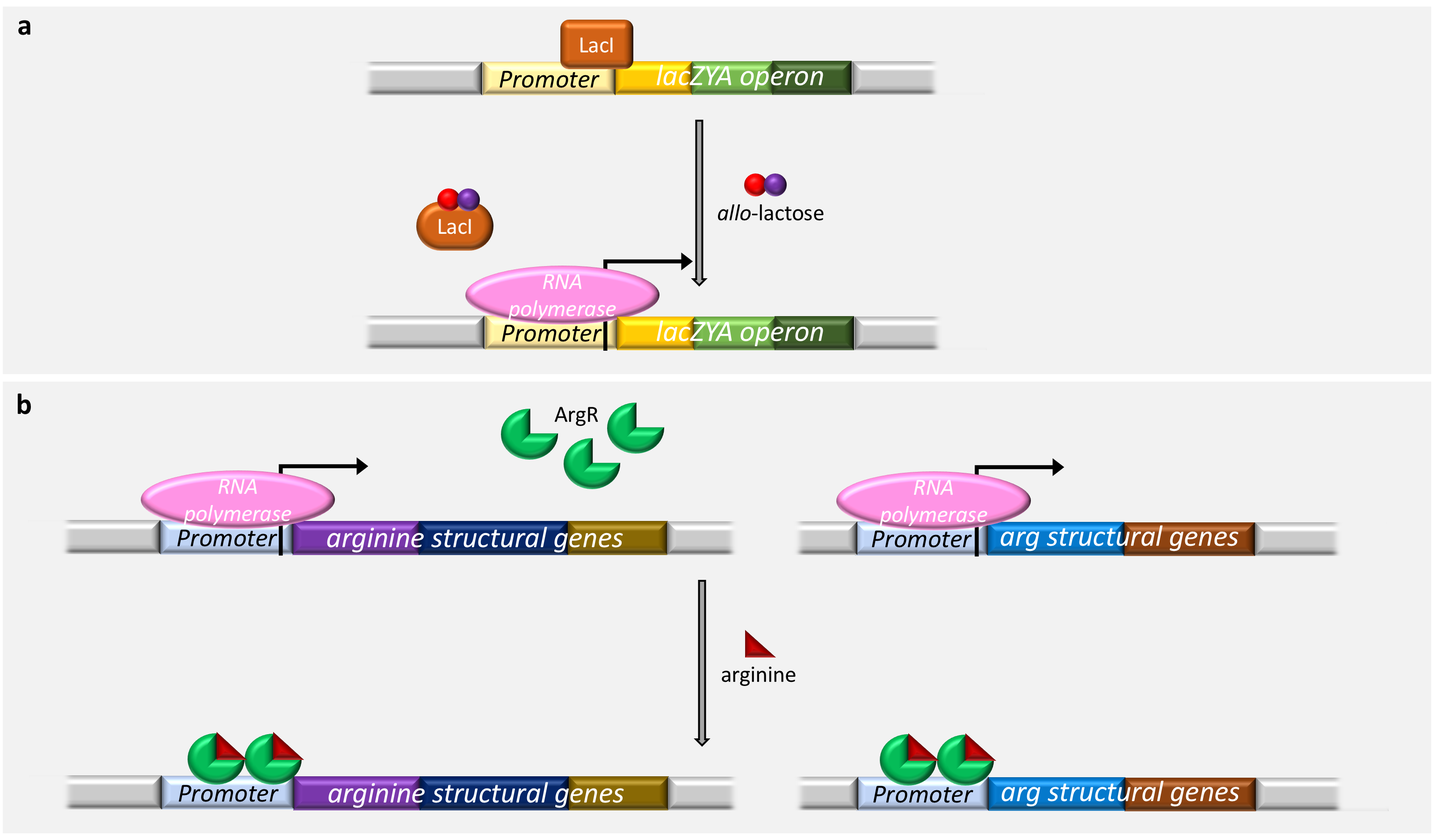
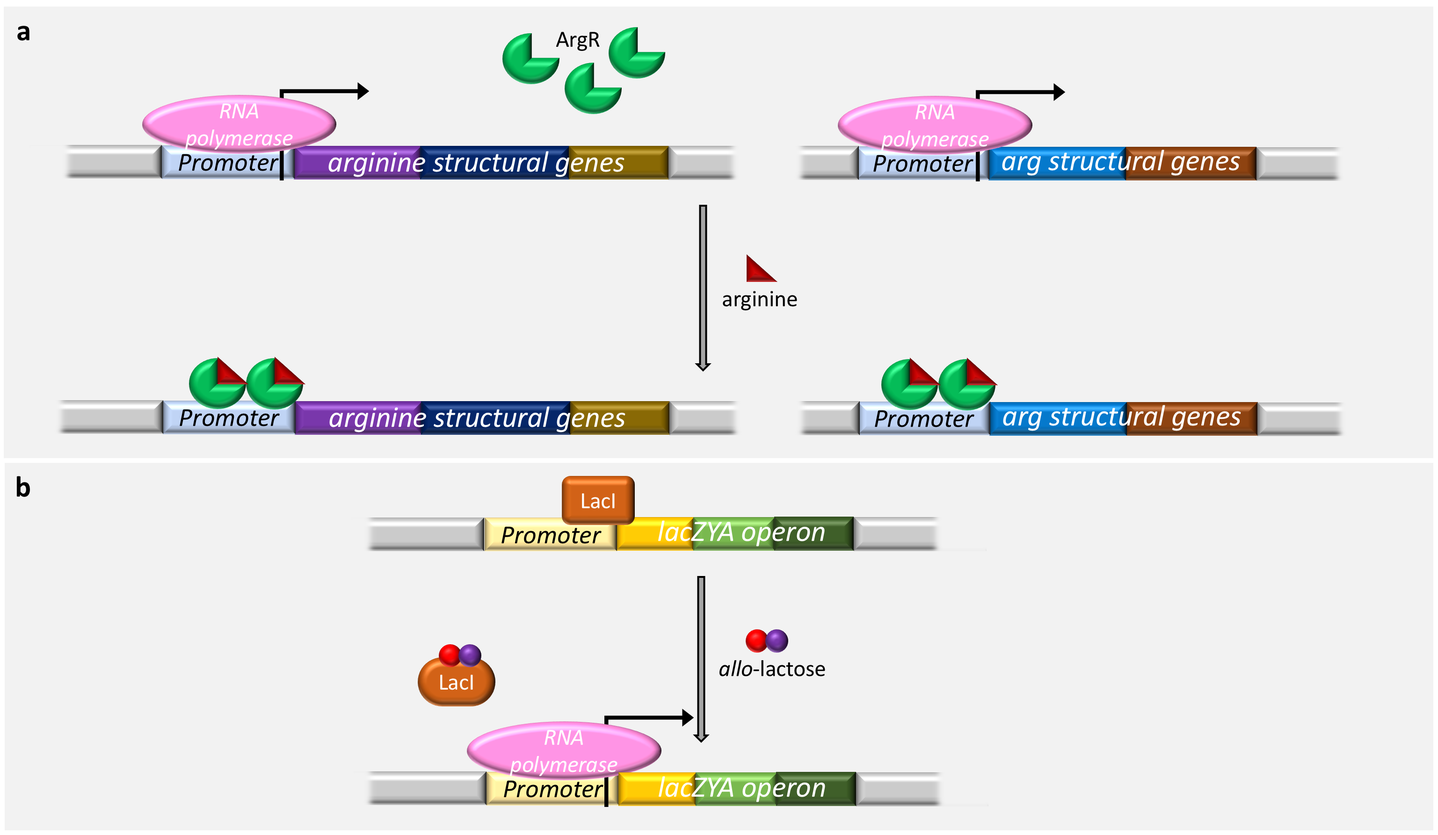
Incorporated all Olin's suggestions so far into Intro

Changed region(s): [[0.0, 0.4311, 0.9289, 0.9854], [0.031, 0.0, 0.9289, 0.5235], [0.0, 0.0308, 0.031, 0.0616]]

diff --git a/text/02_Introduction.tex b/text/02_Introduction.tex
@@ -7,25 +7,18 @@
 Bacteria exhibit genotypic and phenotypic variability even at the levels of genus.
 This variability is continuously shaped by natural selection as the cells that are better adapted to the current conditions are more likely to survive and proliferate.
 In the case of unicellular organisms the survival game is more stringent, because they face the changing conditions directly and have limited ability to escape.
-Drought, nutrient poor environments, or high UV radiation are some of the most harsh environments bacteria can experience.
-Nevertheless even in these we find viable cells which have evolved to survive for either short or long period of time.
-Importantly, cells have evolved multiple ways how to overcome such conditions and thus variability in survival strategies in the same environment still occurs.
-These differences could be driven by other selection forces acting simultaneously or could be a result of previous evolution in response to a similar environment.
+Cells must survive osmotic stress, nutrient poor environments, or high UV radiation. They have evolved multiple ways how to overcome such conditions, many of which rely on responding to such environmental changes with physiological adaptations.
+These are all mediated by sensing external signals and translating them into internal responses.
+However, the differences in response to the same signal could be driven by other selection forces acting simultaneously or could be a result of previous evolution in response to a similar environment.
 Anyway, cells which don't manage to adapt to the new conditions are excluded by natural selection and die.
 
-% 17.9.2018
-% see if you can get someone to proff grammar? Georgia?
-\section{Cellular responses}
-% 17.9.2018
-% I think you can go into a bit more detail about what you are going to say below here. e.g. once you talk about transcription, "Responses time depend on the topology of the circuit, the signals that bacteria have observed previously (memory), and any predicitve behaviour that the bacteria are capable of. Below I go into each of these properties in more detail to establish the current state of the field..." Then first, your section on topology (eg FFLs) and effects on response, memory, etc., then with specific examples. Then prediction, then the fact that not much is known about selection on memory, response, et.c except circumstantial evidence (e.g. the predictive behaviour of things in the gut).
 It is essential for a living cell to sense what is happening in the environment and react accordingly.
 If the timescale of this reaction should be on the order of seconds, there is no time for changes in transcription or translation.
 In that case the cell fate depends on the proteins or other small molecules it has already synthesised.
 One example of a fast response to a signal is chemotaxis.
 When a motile bacterium occurs in a gradient of an attractant (e.g. nutrients such as sugars or amino acids) or repellent (toxic metabolites, some divalent cations), it swims towards or away from the higher concentration of it, respectively.
-% 17.9.2018
-% say something more specific about the mechanisms and how it occurs ona second-level timescale
-In order to react swiftly, the cell needs to have the flagella already expressed.
+The change from a random bacterial walk to an active chemotaxis is mediated by a protein CheY.
+Its phosphorylation depends on sensing of external signals and determines the probability of flagella rotating clockwise (i.e. cell rotation) switching into counter-clockwise motion (i.e. straight run) \cite{shimizu2010modular, mears2014escherichia}.
 
 On the other hand if it is advantageous or only necessary to react in minutes or hours, responses can be mediated through translational or transcriptional changes.
 Sometimes a fast change in expression might be even detrimental, especially in the case of an extensive physiological reprogramming.
@@ -33,44 +26,27 @@ Such alterations consume a lot of energy.
 For the cell it might be more profitable to not respond at once.
 Cells might even benefit from not responding at all for some time, for example if the signal triggering costly response is likely to be transient.
 To manage and orchestrate many responses to multiple signals cells evolved a network of extra- and intracellular signalling pathways.
-As I focus on transcriptional responses the following text covers mostly these cases.
 
-\subsection{Signal recognition}
+As I focus on transcriptional responses the following text covers mostly these cases and describes the effects of different mechanisms on the speed of the cell response, transcriptional noise, sensitivity and epigenetics.
+Response times depend on the topology of the circuit, the signals that bacteria have observed previously (i.e. memory), and any predictive behaviour that the bacteria are capable of.
+By epigenetics or memory I mean a heritable change in gene expression without simultaneous changes in DNA primary sequence and transcriptional noise is understood as a variability in gene expression among individual cells with the same genetic background.
+Below I go into each of these properties in more detail to establish the current state of the field.
+Besides, I also focus on \tax{E. coli} strains as it is well studied model organism, but little is known about its environmental isolates which seems to be adapted to survive and proliferate outside their hosts \cite{byappanahalli2004indigenous, ishii2006presence, somorin2016general}.
+
+
+
+\section{Signal recognition}
 The first step of cellular response is sensing of internal and external cues.
 There are several ways how bacteria can detect such signals and these are described below.
-On the other hand, there is little known about how these different signal sensing mechanisms affect the cell response dynamics in terms of speed, sensitivity, noise and memory.
+On the other hand, there is little known about how these different signal sensing mechanisms affect the cell response dynamics and whether they differ in terms of speed, sensitivity, noise or memory.
 
-\subsubsection{Direct signalling pathways}
+\subsection{Direct signalling pathways}
 Direct signalling occurs when a signal molecule is imported through a cell membrane into the cytosol, or is produced by the cell and subsequently interacts with regulatory proteins.
 This is often the case for genes involved in carbohydrate catabolism and amino acid biosynthesis \cite{charlier1992arginine, weickert1992isorepressor, pittard1996various, wheatley2013structural}.
 In this case, the necessity to import the nutrients into a cell prior to their consumption is utilized also for signalling.
 Physical signals such as UV or heat are also considered direct, although no active import takes place in the signalling.
 
-%%%In order to save energy, it is be advantageous for cells to avoid wasteful production of proteins which are not used at all the time.
-%%%For instance, there is no sense in producing plenty of enzyme hydrolysing lactose (LacZ) if no lactose is present or expected to be present soon.
-%%%This is well studied in the best known bacterial model organism \tax{E. coli}.
-%%%To avoid wasteful production of LacZ, \tax{E. coli} expresses \tax{lac} repressor (LacI) \cite{hudson1990co}.
-%%%However, \tax{lac} operon transcription is desired if lactose is present in the media, this is ensured by \tax{lac} operon inducers.
-%%%Allolactose - \tax{lac} operon inducer - is imported by lactose permease into the cell where it binds directly to the repressor LacI.
-%%%Lactose itself has to be modified to the allolactose by $\beta$-galactosidase (LacZ) at first \cite{jobe1972lac, wheatley2013structural}.
-%%%LacI binding to the promoter DNA is then released triggering \tax{lacZYA} expression (Fig. \ref{dir}\textcolor{red}{a}) together with binding of general regulatory protein CRP \cite{hudson1990co, clark2005molecular}.
-%%%CRP levels rise when the availability of a preferred carbon source (e.g. glucose) drops.
-%%%
-%%%\begin{figure}[ht]
-%%%  \centering
-%%%  \includegraphics[scale=0.27]{text/Pictures/DirectSignaling.png}
-%%%	\caption{Schemes of direct signaling; \textbf{a} if \tax{lac} operon inducer (allolactose) is present it binds to LacI repressor and induces \tax{lac} operon transcription; \textbf{b} expression of arginine structural genes is co-repressed by arginine itself, because without it ArgR repressor cannot bind to DNA.}
-%%%	\label{dir}
-%%%\end{figure}
-%%%
-%%%For other metabolic pathways regulation might occur through a different mechanism, however.
-%%%Arginine, for instance, acts as a co-repressor of its own biosynthesis (Fig. \ref{dir}\textcolor{red}{b}).
-%%%Thus, when a bacterium does not have enough of this amino acid available for protein production the transcription of arginine genes is active \cite{charlier2004biosynthesis, caldara2006arginine}.
-%%%On the other hand, when arginine is abundant in the culture medium and thus in the cell, there is no need to make more of it.
-%%%The cell has ArgR repressor present in cytosol but ArgR itself cannot bind to DNA and inhibit transcription in the arginine absence \cite{clark2005molecular, caldara2006arginine}.
-%%%However when there is plenty of arginine in the cell it binds to ArgR and as a co-repressor inhibits expression of arginine structural genes binding to an appropriate promoter \cite{charlier1992arginine, charlier2004biosynthesis, clark2005molecular}.
-
-\subsubsection{Indirect signalling pathways}
+\subsection{Indirect signalling pathways}
 It is not always beneficial for a cell to import signal molecules into cytosol as some of them might be toxic or simply too big (e.g. host-pathogen interactions).
 In order to sense environmental cues without the necessity to import them, bacteria possess sensory proteins which are located in their membrane.
 Upon binding of a signal molecule by extracellular domain, the protein changes its conformation transferring the received signal into the cell interior.
@@ -99,14 +75,14 @@ This results in similar outputs in response to various signals \cite{kaczmarczyk
 In contrast, some signals result in multiple responses.
 A divergent signal transmission mediates this (Fig. \ref{two}\textcolor{red}{e}) as one sensory kinase is able to phosphorylate aspartate domains of different acceptor proteins \cite{mika2005two, groisman2016feedback}.
 
-\subsection{Signal processing}
+\section{Signal processing}
 After a signal is received by a cell, it triggers changes in activity of proteins and/or gene expression.
 While control of protein activity helps to respond to quick environmental changes, translational regulation is a useful tool for controlling differential production of proteins coded within the same operon and thus transcribed on the same mRNA \cite{dar2018extensive}.
 Transcriptional regulation on the other hand might be considered as the most economical as it inhibits the very synthesis of products which are not needed at the moment.
 This saves resources and energy for synthesis of desired gene outputs.
 As the latter type of regulation is the focus of this work, I outline the important aspects of this process in more detail below.
 
-\subsubsection{Regulation of transcription initiation}
+\subsection{Regulation of transcription initiation}
 Initiation of transcription is the very first step of gene expression and as that it is highly regulated.
 The crucial step is RNA polymerase binding to the promoter sequence, which contains motifs known as the -35 element, the extended -10 element, the -10 element, the
 discriminator region, the UP element and the core recognition element.
@@ -116,7 +92,15 @@ Here I'm going to describe regulation of this step involving transcription facto
 Activity of these factors corresponds to signals the cell acquires from internal or external environment.
 Even though some factors control only one promoter, majority of at least \tax{E. coli} promoters is regulated by more of them \cite{karp2014ecocyc}.
 
-\textbf{Repression} of promoters is often based on producing an obstacle in the place of -10 and -35 elements which blocks RNA polymerase binding to the promoter.
+\begin{figure}[ht!]
+  \centering
+  \includegraphics[scale=0.4]{text/Pictures/TxnInitRegulation.png}
+	\caption{Regulation of transcription initiation by repressors and activators. (reproduced from \cite{browning2016local})}
+	\label{txn}
+\end{figure}
+
+\subsubsection{Repression}
+Repression of promoters is often based on producing an obstacle in the place of -10 and -35 elements which blocks RNA polymerase binding to the promoter.
 This is being achieved by various mechanisms.
 The simplest one is repressor binding to the operator which overlaps one or both of those promoter elements \cite{brent1981mechanism} (Fig.~\ref{txn}\textcolor{red}{a}).
 Other promoters have distant operators outside -10 and -35 elements, but bound repressors cluster creating a DNA loop which also constitutes a blockage \cite{semsey2004dna} (Fig.~\ref{txn}\textcolor{red}{a}).
@@ -127,14 +111,21 @@ Activity of certain promoters can be controlled gradually.
 Such promoter sequences have arrays of operators and the amount of bound repressors affects the strength of the repression.
 Some promoters are also recognized by more than one kind of repressor which usually don't affect each other \cite{el2009repression}.
 
-\begin{figure}[ht!]
+For instance arginine acts as a co-repressor of its own biosynthesis (Fig. \ref{dir}\textcolor{red}{a}).
+When a bacterium does not have enough of this amino acid available for protein production the transcription of arginine genes is active \cite{charlier2004biosynthesis, caldara2006arginine}.
+On the other hand, when arginine is abundant in the culture medium and thus in the cell, there is no need to make more of it.
+The cell has ArgR repressor present in cytosol but ArgR itself cannot bind to DNA and inhibit transcription in the arginine absence \cite{clark2005molecular, caldara2006arginine}.
+However when there is plenty of arginine in the cell it binds to ArgR and as a co-repressor inhibits expression of arginine structural genes binding to an appropriate promoter \cite{charlier1992arginine, charlier2004biosynthesis, clark2005molecular}.
+
+\begin{figure}[ht]
   \centering
-  \includegraphics[scale=0.4]{text/Pictures/TxnInitRegulation.png}
-	\caption{Regulation of transcription initiation by repressors and activators. (reproduced from \cite{browning2016local})}
-	\label{txn}
+  \includegraphics[scale=0.27]{text/Pictures/DirectSignaling.png}
+	\caption{Schemes of direct signaling; \textbf{a} expression of arginine structural genes is co-repressed by arginine itself, because without it ArgR repressor cannot bind to DNA; \textbf{b} if \tax{lac} operon anti-repressor (allolactose) is present it binds to LacI repressor and induces \tax{lac} operon transcription.}
+	\label{dir}
 \end{figure}
 
-\textbf{Activation}, on the other hand, enables particular gene transcription or increases strength of RNA polymerase binding to the promoter.
+\subsubsection{Activation}
+Activation, on the other hand, enables particular gene transcription or increases strength of RNA polymerase binding to the promoter.
 Similar to the repression, some activators interact directly with RNA polymerase but other act indirectly as anti-repressors most often by releasing and preventing repressor binding to the operator \cite{frederix2011co}.
 Besides affecting sequence specific repressors, some indirect activators affect also binding of nucleoid associated proteins (NAPs; described more in the next section), altering access for RNA polymerase to the promoter sequence \cite{santana2001transcriptional}.
 Direct activators mostly facilitate the very interaction of RNA polymerase and promoter.
@@ -159,49 +150,52 @@ A bound activator then brings the elements into the optimal position for RNA pol
 %%%Nevertheless, EBPs bind upstream of the promoter elements, so to get in contact with the $\sigma^{54}$ factor a loop has to be produced.
 %%%Production of this loop is known to be mediated by nucleoid associated protein IHF which as well as other NAPs plays a role in DNA accessibility \cite{de1991upstream, sze2001vivo}.
 
-\subsubsection{Regulation of mRNA elongation and transcription termination}
+Gene activation is best studied in the \tax{lac} operon of model organism \tax{E. coli}.
+To avoid wasteful production of enzyme hydrolysing lactose (LacZ), if no lactose is available, \tax{E. coli} expresses \tax{lac} repressor (LacI) \cite{hudson1990co}.
+However, \tax{lac} operon transcription is desired if lactose is present in the media, this is ensured by \tax{lac} operon inducers.
+Allolactose - \tax{lac} operon inducer - is imported by lactose permease into the cell where it binds directly to the repressor LacI.
+Lactose itself has to be modified to the allolactose by $\beta$-galactosidase (LacZ) at first \cite{jobe1972lac, wheatley2013structural}.
+Allolactose thus induces \tax{lac} operon gene indirectly by acting as an anti-repressor.
+LacI binding to the promoter DNA is then released triggering \tax{lacZYA} expression (Fig. \ref{dir}\textcolor{red}{b}) together with binding of general regulatory protein CRP \cite{hudson1990co, clark2005molecular}.
+CRP levels rise when the availability of a preferred carbon source (e.g. glucose) drops.
+Low levels of CRP thus prevent lactose utilization favouring glucose consumption even when lactose is available.
+
+\subsection{Regulation of mRNA elongation and transcription termination}
 After a successful transcription initiation the elongation of mRNA follows until termination comes to place.
 Even though the main transcription regulation occurs at the level of transcription initiation, elongation and termination can be also modulated, ranging from repression of elongation \cite{monsalve1996protein}, through elongation pausing and backtracking \cite{mustaev2017transcription} to transcription attenuation and anti-termination \cite{naville2009transcription}.
 
-\subsubsection{Transcription network topology}
-For better understanding of the whole transcription network regulation, it is important to look at the speed of different regulatory circuits as well.
-This is usually characterised by a rise-time (or response time), i.e. time when the concentration of a gene product reaches its half maximal concentration after gene induction.
-Compared to signal sensing the effect of network motifs on speed of the responses, transcriptional noise and bacterial memory is more understood.
+\subsection{Transcription network topology}
+For better understanding of the whole transcription network regulation, it is important to look at how individual transcriptional motifs affect the the speed of regulatory circuits, transcriptional noise and possible epigenetic memory.
+The speed in transcriptional response is usually characterised by a rise-time (or response time), i.e. time when the concentration of a gene product reaches its half maximal concentration after gene induction.
+Compared to signal sensing the effects of network motifs on these aspects of transcription are more understood.
 
-%%%\subsubsection{Promoter strength and protein lifetime}
-\textbf{Promoter strength and protein lifetime.}
+\subsubsection{Promoter strength and protein lifetime}
 Naturally the more easily and often RNA polymerase binds effectively to a promoter the more of an appropriate protein is produced at the time.
 The strength of the promoter is given by its nucleotide sequence and binding of transcription factors increases or decreases RNA polymerase affinity to it.
 On the other side of this equilibrium is degradation of the product, as its stability in certain conditions determines its lifetime.
 A functional protein is also diluted during cell division, which further reduces its amount per cell.
 
 %%%\subsubsection{Transcriptional network motifs}
-\textbf{Feedback loops} are transcriptional network motifs in which the products affect their own production  (Fig.~\ref{motifs}).
+\subsubsection{Feedback loops}
+A feedback loop is a transcriptional network motif in which the products affect their own production (Fig.~\ref{motifs}).
 The influence of the output on itself transcription might be direct or indirect if multiple effectors are involved.
 Feedback loop are quite common in bacterial gene regulation and affect the speed, variation and sensitivity of cellular responses and can also lead to epigenetic switches.
-Effects of feedback loops on both aspects i.e. transcription dynamics and memory are characterized in detail below.
+First, the effects of feedback loops on transcription dynamics are characterized below and next a part devoted to their connection with cell memory follows.
+Note that most of the work on feedback loop dynamics has been done by comparing the feedback loops to no feedback systems and not by positive versus negative feedback comparison.
 
 A positive feedback loop is a motif in which the product further induces the expression of the gene coding it (Fig.~\ref{motifs}\textcolor{red}{a}).
 Transcriptional activation is slower and noisier in case of positive feedback loops compared to no feedback systems \cite{maeda2006regulatory, sayut2007noise}.
-This is so probably due to low initial amounts of the auto-inducer which might be either diluted before the expression is fully induced or bound to its other functions within the cell.
-This stochasticity in auto-inducer binding to its promoter is likely to cause higher transcription noise upon the induction among individuals and delay it.
-Although slower and noisier, this motif enables cells to react to much lower concentrations of a signal thanks to the positive feedback.
-Both graded and hysteretic expression can occur in genes regulated this way \cite{maeda2006regulatory}.
+This is so probably due to low initial amounts of the auto-inducer which might either be diluted before the expression is fully auto-induced or get bound to its other functions within the cell.
+This stochasticity in auto-inducer binding to its promoter is likely to cause higher transcription noise upon the induction among individuals and delay the effect of the strong induction by positive feedback.
+Although slower and noisier, this motif enables cells to react to much lower concentrations of a signal once the positive feedback loop establishes.
+Both graded and hysteretic expression (i.e. ON or OFF expression state depending on recent events) can occur in genes regulated this way \cite{maeda2006regulatory}.
 
 A negative feedback loop, i.e. a circuit where the product inhibits its own expression, exhibits the opposite traits then positive feedback as it decreases the response time \cite{rosenfeld2002negative} (Fig.~\ref{motifs}\textcolor{red}{b}).
 It also reduces the variability in product concentration decreasing cell-to-cell and temporal variability \cite{becskei2000engineering}.
 This enables the cell to use stronger promoters for proteins needed in a short time but at low concentration without overshoots and risks of protein toxicity.
+Hysteresis in terms of simple negative feedback loop has not been reported, but can be readily achieved by double negative feedback \cite{toman1985system}.
+An example of this is detailed below.
 
-\begin{figure}[ht!]
-  \centering
-  \includegraphics[scale=0.29]{text/Pictures/TxnMotifs.png}
-	\caption{Schemes of transcriptional network motifs; \textbf{a} positive feedback loop - gene product induces its own transcription; \textbf{b} negative feedback loop - gene product represses transcription of its own gene; \textbf{c} coherent feed-forward loops; \textbf{d} incoherent feed-forward loops.}
-	\label{motifs}
-\end{figure}
-
-% 2018.06.28
-% Eventually, go into way more detail here, as this will end up as a full section on lac. But if you are leaving this as a brief intro to positive, negative, double negative, that's fine. You might also start with sensing/reaction and then move to epigenetics. This is a reasonable ref I think *An introduction to systems biology: design principles of biological circuits*, although you always have to be a little careful with Uri Alon's take on things, sometimes it's a bit too facile.
-%%% DO YOU STILL WANT ME TO GO INTO MORE DETAIL ABOUT lac OPERON REGULATION? I DESCRIBE IT IN SOME DETAIL WITHIN SECTION ABOUT CELLULAR RESPONSES...
 Positive feedback loops and double negative feedback loops are known to play a role in memory of prokaryotes so far.
 Positive feedback is the first described example of bacterial epigenetics.
 It was shown already in 1957 that \tax{E. coli} sub-population primed by high concentration of lactose analogue TMG is able to maintain \tax{lac} operon fully induced even in low non-inducible TMG concentrations \cite{novick1957enzyme}.
@@ -246,29 +240,58 @@ Interestingly, Toman et al. used the CI-Cro system for epigenetic reuglation of 
 %%% especially when in similar case - bacillus sporulation is it proven in: "Bet-hedging and epigenetic inheritance in bacterial cell development"
 %%% Olin also argumented by "An excitable gene regulatory circuit induces transient cellular differentiation", because they say becoming competent is probabilistic in Bacillus
 
+\begin{figure}[ht!]
+  \centering
+  \includegraphics[scale=0.29]{text/Pictures/TxnMotifs.png}
+	\caption{Schemes of transcriptional network motifs; \textbf{a} positive feedback loop - gene product induces its own transcription; \textbf{b} negative feedback loop - gene product represses transcription of its own gene; \textbf{c} coherent feed-forward loops; \textbf{d} incoherent feed-forward loops.}
+	\label{motifs}
+\end{figure}
 
-
-\textbf{Feed forward loops} (FFLs) are more complex, but also common regulatory motifs.
-FFL generally, is a regulatory circuit when a transcription factor X regulates another transcription factor, Y, and both (X and Y) regulate a gene or operon Z (Fig.~\ref{motifs}\textcolor{red}{c} and \textcolor{red}{d}).
-It has been predicted that coherent FFLs cause sign-sensitive delays in regulatory kinetics and incoherent FFLs should act as sign-sensitive accelelators and exhibit transient pulses of expression \cite{mangan2003structure}.
-The most abundant schemes were later experimentally confirmed \cite{mangan2003coherent, kalir2005coherent, mangan2006incoherent}.
+\subsubsection{Feed forward loops}
+Feed forward loops (FFLs) are more complex, but also common regulatory motifs.
+FFL is a regulatory circuit when a transcription factor X regulates another transcription factor, Y, and both (X and Y) regulate a gene or operon Z.
+It has been predicted that coherent FFLs  (C1-4; Fig.~\ref{motifs}\textcolor{red}{c}) delays transcriptional responses while incoherent FFLs  (I1-4; Fig.~\ref{motifs}\textcolor{red}{d}) should act the opposite as transcription accelelators and exhibit transient pulses of expression \cite{mangan2003structure}.
+This was later experimentally confirmed, but only in FFL C1 and I1 as these are the most abundant from all the FFLs, which are shown in Fig.~\ref{motifs}\textcolor{red}{c},\textcolor{red}{d} \cite{mangan2003coherent, kalir2005coherent, mangan2006incoherent}.
 The distinction between coherent and incoherent FFL depends on whether the sign (positive or negative) of Z regulation caused by factor X \textit{through} Y is the same as regulation of Z by X itself \cite{shen2002network, mangan2003structure}.
+Compared to feedback loops there is little known whether FFLs are involved in any epigenetic mechanism, following text thus covers only their effect on transcriptional dynamics.
 
-Coherent FFL type 1 (Fig.~\ref{motifs}\textcolor{red}{c}, C1), in which both X and Y must bind to trigger transcription (AND-gate logic) delays activation compared to non-FFL systems \cite{mangan2003coherent}.
+Coherent FFL type 1 (Fig.~\ref{motifs}\textcolor{red}{c}, C1), in which both X and Y must bind to trigger transcription (Table \ref{ANDvsOR}; AND-gate logic) delays activation compared to non-FFL systems \cite{mangan2003coherent}.
 No delay occurs when transcriptional induction is turned off.
-On the other hand, if only factor X or Y is sufficient to induce Z (OR- gate logic in C1 FFL) gene activation is not delayed, but the its deactivation is delayed considerably \cite{kalir2005coherent}.
+On the other hand, if only factor X or Y is sufficient to induce Z (Table \ref{ANDvsOR}; OR-gate logic in C1 FFL) gene activation is not delayed, but the its deactivation is delayed considerably \cite{kalir2005coherent}.
 The AND-FFL prevents Z expression when the concentration of X fluctuates close to a threshold, while the OR-FFL enables continuous production of Z even if X concentration drops below a threshold for a while.
 
-From incoherent FFL motifs the type 1 (Fig.~\ref{motifs}\textcolor{red}{d}, I1) is the predominant in \tax{E. coli} transcriptional network.
-Factor X here positively regulates both Y and Z, however factor Y acts as an inhibitor of Z gene.
-This incoherent FFL speeds up transcriptional responses, but weak pulse-generating power was expected \cite{mangan2003structure}.
-Nevertheless, this motif was used to create effective pulsers \cite{basu2004spatiotemporal}.
-Later the acceleration trait was experimentally confirmed as well despite the fact that other motifs contribute to the used regulatory system \cite{mangan2006incoherent}.
+\begin{center}
+\LTcapwidth=\textwidth
+	\begin{longtable}[c]{|c|c|c|c|}
+\caption{Relationship among expression activity (ON vs OFF) in FFL C1, gate logic (AND vs OR) in regulation and absence or presence (0 vs 1) of trascription inducers} \label{ANDvsOR} \\
+
+\toprule \multicolumn{1}{|c|}{\textbf{inducer X}} & \multicolumn{1}{c|}{\textbf{inducer Y}}  & \multicolumn{1}{c|}{\textbf{AND-gate logic}} & \multicolumn{1}{c|}{\textbf{OR-gate logic}} \\
+\midrule
+\endhead
+
+\bottomrule
+\endlastfoot
+
+0 & 0 & \textcolor{red}{OFF} & \textcolor{red}{OFF} \\
+\hline
+0 & 1 & \textcolor{red}{OFF} & \textcolor{green}{ON} \\
+\hline
+1 & 0 & \textcolor{red}{OFF} & \textcolor{green}{ON} \\
+\hline
+1 & 1 & \textcolor{green}{ON} & \textcolor{green}{ON} \\
+	\end{longtable}
+\end{center}
+
+
+From incoherent FFL motifs the type 1 is the predominant in \tax{E. coli} transcriptional network.
+Factor X here positively regulates both Y and Z, however factor Y acts as an inhibitor of Z gene (Fig.~\ref{motifs}\textcolor{red}{d}, I1).
+This incoherent FFL speeds up transcriptional responses and was used to create effective pulsers, although weak pulse-generating was expected \cite{mangan2003structure, basu2004spatiotemporal, mangan2006incoherent}.
+The acceleration trait was confirmed despite the fact that other motifs (e.g. feedback loop) contributed to the used regulatory system.
 This suggests that the motifs' fundamental functions are preserved even when combined with other motifs.
 Overall this type of regulation similarly to negative feedback loop shortens the rise-time, but unlike the negative feedback doesn't avoid overshoots rather the opposite.
 The overshoot is seen as a pulse of high gene Z expression which is subsequently inhibited by factor Y, but not necessarily back to the basal level.
 
-\subsection{Global control of transcription}
+\section{Global control of transcription}
 Differential physical access to DNA within a chromosome presents one of the explanations to observed variations in promoters activity based on their position in the chromosome \cite{bryant2014chromosome}.
 Nucleoid associated proteins (NAPs) and supercoiling are general mechanisms affecting this accessibility.
 NAPs' role in several cell processes such as replication, horizontal gene transfer or transcription regulation was shown \cite{dixon1984protein, kayoko1992histone, aznar2013hha}.
@@ -310,20 +333,17 @@ Regulation of gene expression thus exhibit a huge network of mutually controlled
 
 
 
-\section{Epigenetics in bacteria}
-Epigenetics is understood as a heritable change in gene expression without simultaneous changes in DNA primary sequence.
-Some studies has shown that cells with the same genetic background might react differently or at a different rate to the same stimulus based on their and their ancestors recent experience \cite{mathis2017asymmetric, ronin2017long}.
-Such ability is advantageous especially if the change in the conditions is predictable and repeats periodically.
+%%%\section{Epigenetics in bacteria}
+%%%Epigenetics is understood as a heritable change in gene expression without simultaneous changes in DNA primary sequence.
+%%%Some studies has shown that cells with the same genetic background might react differently or at a different rate to the same stimulus based on their and their ancestors recent experience \cite{mathis2017asymmetric, ronin2017long}.
+%%%Such ability is advantageous especially if the change in the conditions is predictable and repeats periodically.
+%%%
+%%%\subsection{Mechanisms of bacterial memory}
+%%%Various epigenetic mechanisms such as histone modifications, genomic imprinting or RNA associated silencing are well studied in eukaryotes \cite{durso2014mechanisms}.
+%%%In the case of bacteria DNA methylation by methyltransferases is mostly mentioned, although positive and double negative feedback loops play their role as well especially in terms of population bistability \cite{casadesus2006epigenetic, casadesus2013programmed, adhikari2016dna}.
+%%%Moreover, a new way of memory based on protein aggregation was revealed recently \cite{govers2018protein} and is described further in more detail.
 
-\subsection{Mechanisms of bacterial memory}
-Various epigenetic mechanisms such as histone modifications, genomic imprinting or RNA associated silencing are well studied in eukaryotes \cite{durso2014mechanisms}.
-In the case of bacteria DNA methylation by methyltransferases is mostly mentioned, although positive and double negative feedback loops play their role as well especially in terms of population bistability \cite{casadesus2006epigenetic, casadesus2013programmed, adhikari2016dna}.
-Moreover, a new way of memory based on protein aggregation was revealed recently \cite{govers2018protein} and is described further in more detail.
-
-\subsubsection{DNA methylation by orphan methyltransferases}
-% in my opinion you can shrink this section a bit.
-% one thing to note is that you have gone back and forth between very general topics (the toplogy of regulation networks), to more specific mechanisms (regulating txn via TFs), to very specific mechanisms (dam / dcm). Don't dive too deep. Deep dives into very particular cellular mechanisms can be for later (e.g. if you end up doing a lot fo work on one type of mechanism).
-%%% TOO MUCH SHRINK OR OK?
+\section{DNA methylation in transcriptional regulation}
 Orphan methyltransferases (MTs) were initially studied within restriction-modification system as a bacterial defence against phages, although Dam's ability to alter some gene expression was already described in mid-80s \cite{sternberg1985evidence, bickle1993biology}.
 As orphan MTs lack their cognate restriction endonucleases their role in bacterial cells is not as a primitive immune system, but among others can act as a transcription regulators.
 I describe the epigenetic mechanisms of Dam in detail below as the MT whose relationship to cell memory is most understood.
@@ -356,7 +376,6 @@ When PapB is beeing produced it acts as a \tax{papI} gene transcription activato
 However the described transition from OFF to ON phase occurs with 100-fold lower frequency than vice versa \cite{blyn1990regulation}.
 The process of this opposite transition i.e. from ON to OFF phase involves transfer of Lrp from GATC$^{dist}$ to GATC$^{prox}$ during replication but the exact mechanism is not fully understood yet \cite{adhikari2016dna}.
 
-% This is good. Maybe label the lrp sites as you refer to them in the text?
 \begin{figure}[h!]
   \centering
   \includegraphics[scale=0.3]{text/Pictures/papPili.png}
@@ -384,8 +403,10 @@ The process of this opposite transition i.e. from ON to OFF phase involves trans
 %%%The authors show that cells which inherit protein aggregates are more likely to survive sub-lethal heat-shock or streptomycin exposure.
 %%%They also resume growth much earlier than genetically identical cells without PA.
 
+
+
 \section{Predictive cell behaviour}
-An ability to predict an upcoming event in the environment can be beneficial for any organism.
+An ability to predict an upcoming event in the environment can be beneficial.
 No matter whether the event means a presence of antibiotic or just a shift in carbon source availability.
 If a bacterium is able to predict such event it has a fitness advantage over those who don't expect this to happen in that community.
 It is so, because such cell starts up its expression for future change in advance which doesn't cause a delay in response at the time the change emerges.
@@ -423,12 +444,10 @@ This suggests that selection has acted to increase accurate timing of their resp
 But is concentration-dependent sensitivity to a signal under the selective pressure as well?
 Generally there should be selection towards the concentration of a signal that is somehow informative in the particular environment.
 But, there has been little work to address this question this so far.
-%%% OR SHOULD I SAY "MY" KNOWLEDGE?
 One way to look into whether it is possible for promoter sensitivity to change in response to selection is through experimental evolution.
-% 17.9.2018
-% okay, good, this is a question about natural selection. But it's not the same as experimental evolution...
 Sensitivity of promoter variants from natural isolates could be then compared to those of lines evolved under low to high levels of an appropriate signal.
-Looking simply at the distribution of concentration sensitivity of naturally occurring promoters could also provide an useful information in this matter.
+A better way would be comparison of natural variants to a neutral variation model such as random mutagenesis.
+But, looking simply at the distribution of concentration sensitivity of naturally occurring promoters could also provide an useful information in this matter.
 
 \subsection{Selection on noise}
 In the case of expression noise, prior works have clearly shown that it is an evolvable trait \cite{richard2014does}.
@@ -451,20 +470,19 @@ But a question still remains: are these observed traits really what is actively 
 Some bacteria are also able to predict upcoming event based on othervise unrelated signal \cite{kondo1993circadian, min2005rhythmic, tagkopoulos2008predictive, mitchell2009adaptive}.
 An attempt of evolution of classical Pavlovian reflex to originally neutral signal in microorganisms was published last year \cite{lopez2017adaptive}.
 As the neutral signal caffeine was added to media which yeast \tax{S. cerevisiae} was expected to associate with upcoming 5-fluoroorotic acid presence (metabolised into a toxic substance).
-% 17.9.2018
-% I think there's no probelm in saying that more work needs to be done to establish this phenomenon...unless you think this paper presents good evidence (I cant remember).
 This predictive-like response appeared just within few hundred generations, but was not stable over time.
 Thus, little is still known how microorganisms evolve such reflex to neutral cues.
 A mathematical model suggests this to occur if benefits of such prediction exceed its costs in other environments \cite{mitchell2011mathematical}, but no experimental evidence is available so far.
-Nevertheless the reported decoupling of reaction to a signal in the absence of expected outcome is an indication of selection acting on predictive behaviour \cite{tagkopoulos2008predictive, mitchell2009adaptive}.
+Nevertheless the decoupling of reaction to a signal in the absence of expected outcome reported previously is an indication of selection acting on predictive behaviour \cite{tagkopoulos2008predictive, mitchell2009adaptive}.
 
-Most work in this area has been done on single strains.
-% 17.9.2018
-% Almost all work on bacterial responses, memory, and predictive behaviour has been performed on lab strains" (don't forget C cresecentus, B subtilis, and P. fluorescens (among others).
+Almost all work on bacterial responses, memory and predictive behaviour has been performed on lab strains and by using just a single strain of a particular genus.
 But the questions about how natural selection acts on transcriptional responses and memory in bacteria cannot be fully addressed without exploring natural variability in individual promoters among various isolates of the same genus.
 Because without the knowledge of the natural phenotypic and genotypic variation in responses and memory we can just guess how selection forces shape these traits in nature, at what extent or whether they really do so.
 And this is something no one have looked into in detail as yet.
 
+Here I will investigate how selection acts on these traits by quantifying them in natural isolates of \tax{E. coli} and comparing these to a neutral model of variation generated in the lab.
+By testing whether the observed variants have lower or higher levels of divergence than randomly selected variants we can infer how natural selection is acting.
+I detail these approaches in the following section.
 
 %%%\section{Natural variation in responses and memory}
 %%%Although the presence of \tax{E. coli} in water is still widely used as an indicator of fecal contamination, recent studies show that some \tax{E. coli} isolates are able to  reproduce in outside environment \cite{byappanahalli2004indigenous, somorin2016general}.
